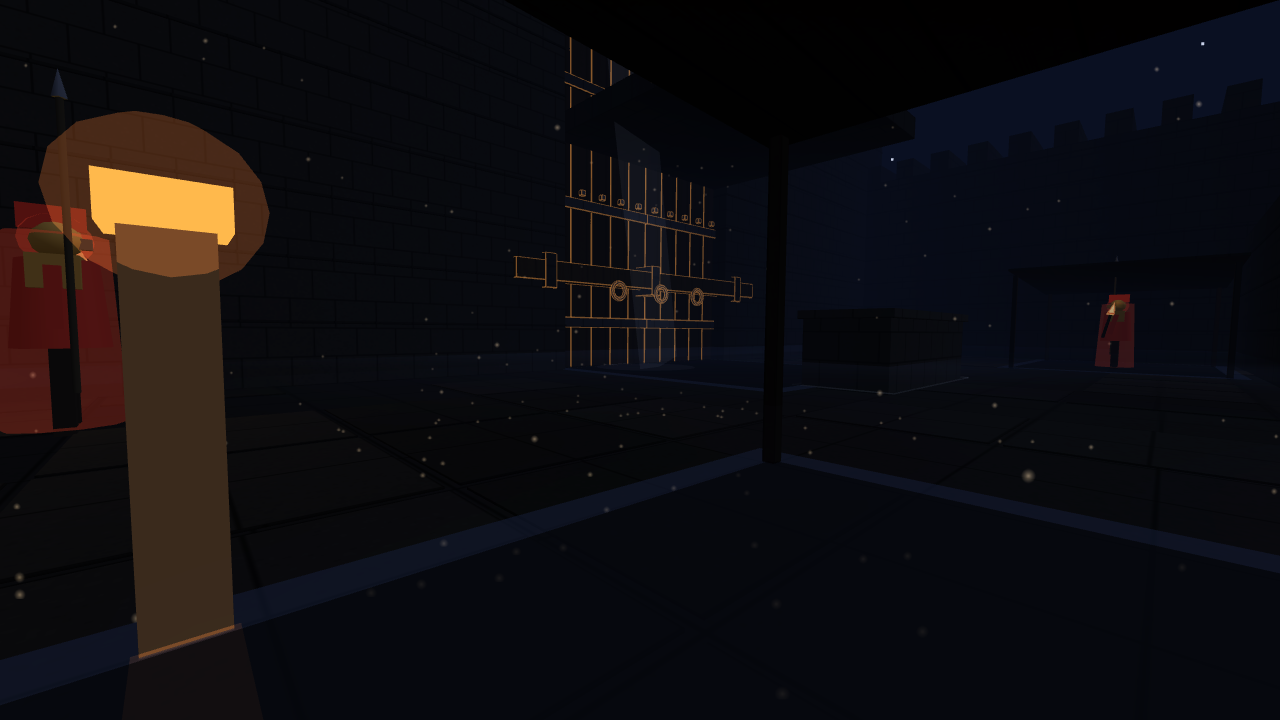
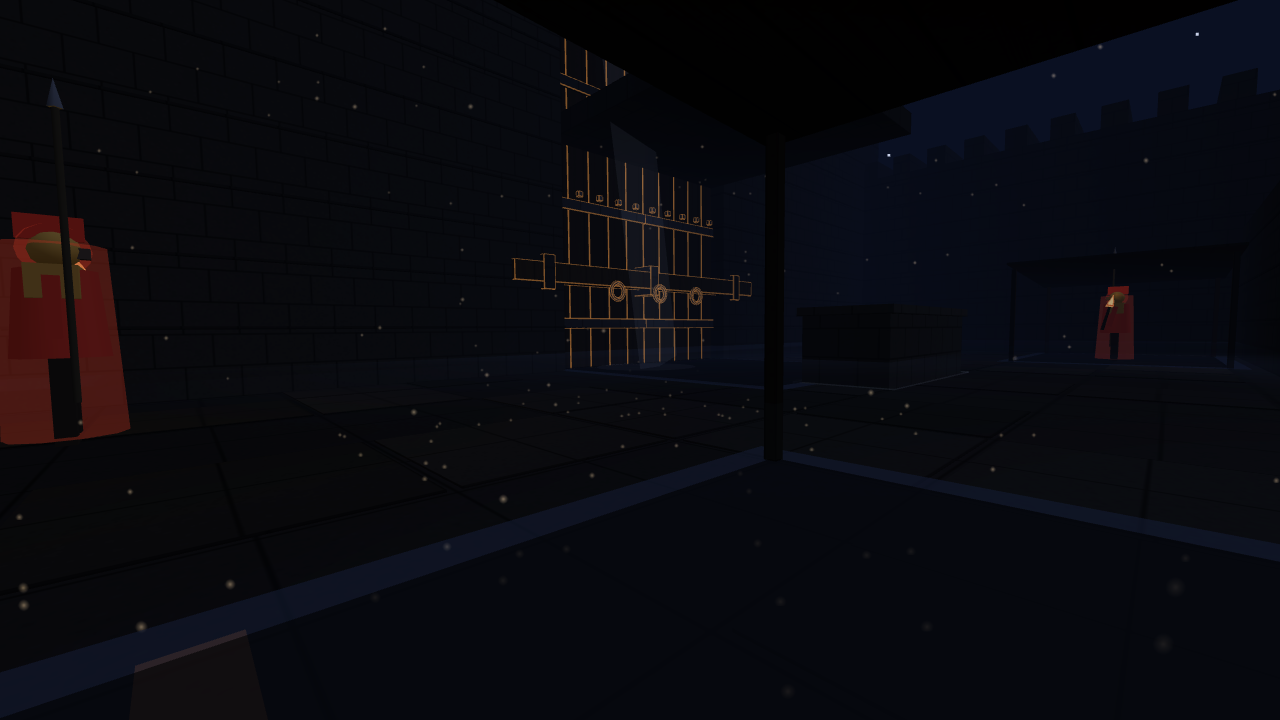
3D 場景加強：art=2 預設改建議組合四項、關口界石改矮改暗且避開出生點（使用者 11/26 選定；畫面，總控審）

diff --git a/prototypes/troy-prologue/index.html b/prototypes/troy-prologue/index.html
@@ -852,8 +852,8 @@ scene.fog = new THREE.FogExp2(FOG, .045);
 //   shadow 陰影（離鏡頭最近的 ART_SHADOW_N 盞火投影）｜key 關鍵物件好認（衛兵、木馬、城門、各區關口）
 //   色票照企劃只用夜藍、火橘、警告紅；光源仍只有火盆與火把。開關全關時下面每一段都不執行，畫面與以前相同。
 const ART = (() => {
-  const on = URLQ.get('art') === '2', all = ['mat', 'fire', 'fog', 'shadow', 'key'];   // 不寫 ?fx＝這五項全開；mat2（高品質材質）要另外點名
-  const list = URLQ.has('fx') ? String(URLQ.get('fx')).split(',').map(x => x.trim()) : all;
+  const on = URLQ.get('art') === '2', all = ['mat', 'fire', 'fog', 'shadow', 'key'], rec = ['mat', 'fire', 'fog', 'key'];   // 不寫 ?fx＝建議組合四項（使用者 11/26 選）；shadow、mat2 要在 fx 點名才開
+  const list = URLQ.has('fx') ? String(URLQ.get('fx')).split(',').map(x => x.trim()) : rec;
   const fx = {}; for (const k of all.concat('mat2')) fx[k] = on && list.includes(k);
   return { on, fx, tex: {}, mist: null, shadowAt: 0 };
 })();
@@ -1388,20 +1388,22 @@ function artApply(L, gate) {
     const mist = new THREE.Mesh(new THREE.PlaneGeometry(sz.w + 40, sz.h + 40), new THREE.MeshBasicMaterial({ color: 0x2a3a66, map: t, transparent: true, opacity: .16, blending: THREE.AdditiveBlending, depthWrite: false }));
     mist.rotation.x = -Math.PI / 2; mist.position.set(sz.w / 2, .45, sz.h / 2); t.repeat.set(6, 3); world.add(mist); ART.mist = mist;
   }
-  // 關鍵物件：木馬、城門描邊（火橘），各區關口立一對發亮的界石（不加燈，只是自己發光）
+  // 關鍵物件：木馬、城門描邊（火橘），各區關口立一對到膝蓋高的矮界石，只微微發光（不加燈；11/26 使用者選矮、暗，不擋視線）
   if (ART.fx.key) {
     if (S.horseGroup) artEdges(S.horseGroup, 0xd8843a, .45);
     if (S.gate && S.gate.bar && S.gate.bar.parent) artEdges(S.gate.bar.parent, 0xffa040, .6);
-    const post = new THREE.MeshBasicMaterial({ color: 0x3a2a1c }), cap = new THREE.MeshBasicMaterial({ color: 0xff9a40 });
-    const glow = new THREE.MeshBasicMaterial({ color: 0xff8030, transparent: true, opacity: .25, blending: THREE.AdditiveBlending, depthWrite: false });
+    const post = new THREE.MeshBasicMaterial({ color: 0x2e241a }), cap = new THREE.MeshBasicMaterial({ color: 0x8a5228 });
+    const glow = new THREE.MeshBasicMaterial({ color: 0xff8030, transparent: true, opacity: .25, blending: THREE.AdditiveBlending, depthWrite: false });   // 地上光帶
+    const halo = new THREE.MeshBasicMaterial({ color: 0xff8030, transparent: true, opacity: .1, blending: THREE.AdditiveBlending, depthWrite: false });   // 石頭頂上很淡的一圈
     for (const z of arr(L.zones)) {
       const r = z && z.exit && z.exit.kind === 'rect' && R(z.exit.rect); if (!r) continue;
       const cx = (r.x0 + r.x1) / 2, along = (r.x1 - r.x0) < (r.z1 - r.z0);   // 出口是一條窄矩形：界石放在長邊兩端
       const ends = along ? [[cx, r.z0 - .15], [cx, r.z1 + .15]] : [[r.x0 - .15, (r.z0 + r.z1) / 2], [r.x1 + .15, (r.z0 + r.z1) / 2]];   // 界石貼在關口兩側的牆邊，不擋路
       for (const [px, pz] of ends) {
-        box(.22, 1.3, .22, 0, px, .65, pz, world, post);
-        box(.3, .14, .3, 0, px, 1.36, pz, world, cap);
-        const g = new THREE.Mesh(new THREE.SphereGeometry(.26, 10, 8), glow); g.position.set(px, 1.38, pz); world.add(g);
+        if (arr(L.zones).some(q => q && q.start && Math.hypot(q.start.x - px, q.start.z - pz) < 2.5)) continue;   // 出生點旁邊那根不放，免得一進區就擋在眼前
+        box(.28, .42, .28, 0, px, .21, pz, world, post);
+        box(.3, .06, .3, 0, px, .45, pz, world, cap);
+        const g = new THREE.Mesh(new THREE.SphereGeometry(.16, 10, 8), halo); g.position.set(px, .48, pz); world.add(g);
       }
       const band = new THREE.Mesh(new THREE.PlaneGeometry(along ? .25 : r.x1 - r.x0, along ? r.z1 - r.z0 : .25), glow);   // 地上一條淡淡的光帶，標出要穿過的那條線
       band.rotation.x = -Math.PI / 2; band.position.set(cx, .05, (r.z0 + r.z1) / 2); world.add(band);

diff --git a/docs/process/agent-notes/view.md b/docs/process/agent-notes/view.md
@@ -138,7 +138,7 @@
 
 - （11/23）**短展示關卡 `?map=demo`**：只在帶參數時用 document.write 載 level-troy-demo.js（window.TroyLevelDemo），經 Rules.resolveLevel 交 createLevel；載入失敗時回到長開場頁，開場最上面顯示一行訊息、用原本地圖。DEMO_ON 時：CLEAN_Q 也算開（不讀存檔，別人留下的除錯開關帶不進展示）、不問問卷、body.demoMode 藏開發用按鈕。開場字卡是 STORY_CARDS.demo（storyShow('demo', startFromTop)），開始前 game 還是 null。結局、失敗的「再玩一次」呼叫 backToIntro（停聲音、清狀態、回字卡）；空白鍵與 Enter 先擋一下（失敗 1.2 秒、結局 2.6 秒），免得還按著屏息就跳走。
 
-- （11/26）**3D 場景加強 `?art=2`（美術 A 試做）**：index.html 的 ART 物件，`?fx=mat,fire,fog,shadow,key` 個別開（不寫＝五項全開；mat2 另外點名）。掛勾四處：build 結尾 artApply、buildHorse 記 S.horseGroup、新衛兵 artGuard、火光迴圈後 artFrame；ART.on 為假時全部不執行。材質是程式畫的灰階紋理（不用外部圖檔）乘原色，方塊 UV 改成每 2 公尺一張；**mat2（Phong＋凹凸）與 shadow（點光源投影）在軟體算圖只剩 1～5 幀**，mat 用 Lambert＋紋理。陰影只讓離鏡頭最近的 2 盞火投影、每秒換一次（點光源投影一盞要畫 6 次）。關口界石貼在出口矩形長邊兩端的牆邊。量幀數要用 `--use-angle=d3d11 --enable-gpu --ignore-gpu-blocklist` 才會用到顯示卡（RTX 3060），預設無頭是軟體算圖；凍結畫面用 `TroyDebug.game.step = () => g`，前後比較要固定 Math.random 種子（addScriptToEvaluateOnNewDocument）。
+- （11/26）**3D 場景加強 `?art=2`（美術 A 試做）**：index.html 的 ART 物件，`?fx=mat,fire,fog,shadow,key` 個別開（不寫＝建議組合 mat,fire,fog,key；shadow 與 mat2 要點名，11/26 使用者選）。掛勾四處：build 結尾 artApply、buildHorse 記 S.horseGroup、新衛兵 artGuard、火光迴圈後 artFrame；ART.on 為假時全部不執行。材質是程式畫的灰階紋理（不用外部圖檔）乘原色，方塊 UV 改成每 2 公尺一張；**mat2（Phong＋凹凸）與 shadow（點光源投影）在軟體算圖只剩 1～5 幀**，mat 用 Lambert＋紋理。陰影只讓離鏡頭最近的 2 盞火投影、每秒換一次（點光源投影一盞要畫 6 次）。關口界石貼在出口矩形長邊兩端的牆邊，到膝蓋高（.42＋頂蓋）、只微微發光；離任一區出生點 2.5 公尺內的不放（出口線常常就是下一區的出生點，站在線上往前看會正對牆邊那根）。量幀數要用 `--use-angle=d3d11 --enable-gpu --ignore-gpu-blocklist` 才會用到顯示卡（RTX 3060），預設無頭是軟體算圖；凍結畫面用 `TroyDebug.game.step = () => g`，前後比較要固定 Math.random 種子（addScriptToEvaluateOnNewDocument）。
 
 ## 4. 驗證方式
 - **本機開原型（有外殼）**：
@@ -240,6 +240,7 @@
   - 還沒解決：手機沒有觸控操作，手機寬度只驗證版面與流程，真的手機玩不了；展示請用電腦、鍵盤滑鼠。開局鏡頭面向火盆和牆，新觀眾知不知道往哪走要真人看。
 - 11/26（畫面）木馬之夜 3D 場景加強試做（只改 troy-prologue/index.html，未提交；全套 400 項與 cleancheck 通過；截圖、幀數表在 `docs/process/art-trial-2026-11-26/`）：?art=2 開，五項 mat 材質、fire 火光、fog 霧、shadow 陰影、key 關鍵物件可個別開關，另有 mat2 高品質材質。關鍵物件：衛兵披風與盔甲微微自發光＋警告紅外輪廓、木馬與城門火橘描邊、各區關口兩側發光界石與地上光帶。建議 12/24 用 mat,fire,fog,key（RTX 3060 上 182～274 幀、軟體算圖 10～16 幀），shadow 與 mat2 不用。
   - 沒做：介面（美術 C）；火盆位置仍是預設地圖寫死的座標，七段地圖新區沒有火盆（原本就這樣，非這次改動）。真人要看：在展示用電腦實跑幀數、暗色寫實的程度是否太亮、界石會不會太搶眼。
+  - 11/26 晚（審過提交 32761e7 後追加）：不寫 fx 預設改建議組合四項；界石改矮、改暗、出生點 2.5 公尺內不放，地上光帶保留；重截 plaza-1、gate-1。400 項與 cleancheck 通過，未提交。
 - （已由規則角色依模式切換）規則層提示文字仍寫「節奏斷掉的瞬間」（例如暗殺教學），不中斷模式下要改，屬規則角色。
 - 要人眼確認：邊緣白閃亮度、高度警覺暈和既有起疑暈（`#edge`）疊在一起會不會太橘、追殺衝刺速度線的量、火光基準亮度（FIRE_BASE 0.35 讓平常比以前暗）。
 

diff --git a/docs/process/art-trial-2026-11-26/README.md b/docs/process/art-trial-2026-11-26/README.md
@@ -1,10 +1,10 @@
 # 木馬之夜 3D 場景加強試做（美術 A，2026-11-26，畫面角色）
 
-開法：`troy-prologue/index.html?map=final&art=2`；只開某幾項加 `&fx=mat,fire,fog,shadow,key`（不寫 `fx`＝五項全開；`mat2`＝高品質材質，要另外點名）。不帶 `art=2` 時畫面不變。
+開法：`troy-prologue/index.html?map=final&art=2`；只開某幾項加 `&fx=mat,fire,fog,shadow,key`（不寫 `fx`＝建議組合 mat、fire、fog、key 四項（使用者 11/26 選）；`shadow` 陰影與 `mat2` 高品質材質要在 `fx` 裡點名才開，例如 `&fx=mat,fire,fog,key,shadow`）。不帶 `art=2` 時畫面不變。
 
 截圖：同一位置、同一個亂數種子，開效果前後各一張。
 - `*-0-前-原本.png`：沒開效果
-- `*-1-後-建議組合.png`：`fx=mat,fire,fog,key`（建議 12/24 用這組）
+- `*-1-後-建議組合.png`：`fx=mat,fire,fog,key`（建議 12/24 用這組；也是現在不寫 fx 的預設）。plaza、gate 兩張 11/26 晚上照新界石重截：界石改成到膝蓋的矮石、只微微發光，地上光帶保留；離任一區出生點 2.5 公尺內的界石不放（原本廣場出生點正前方那根會擋視線）
 - `*-2-後-全開含陰影.png`：五項全開
 - 位置：`plaza` 神殿廣場、`alley` 窄巷、`back` 沒有火的後街、`gate` 城門
 
